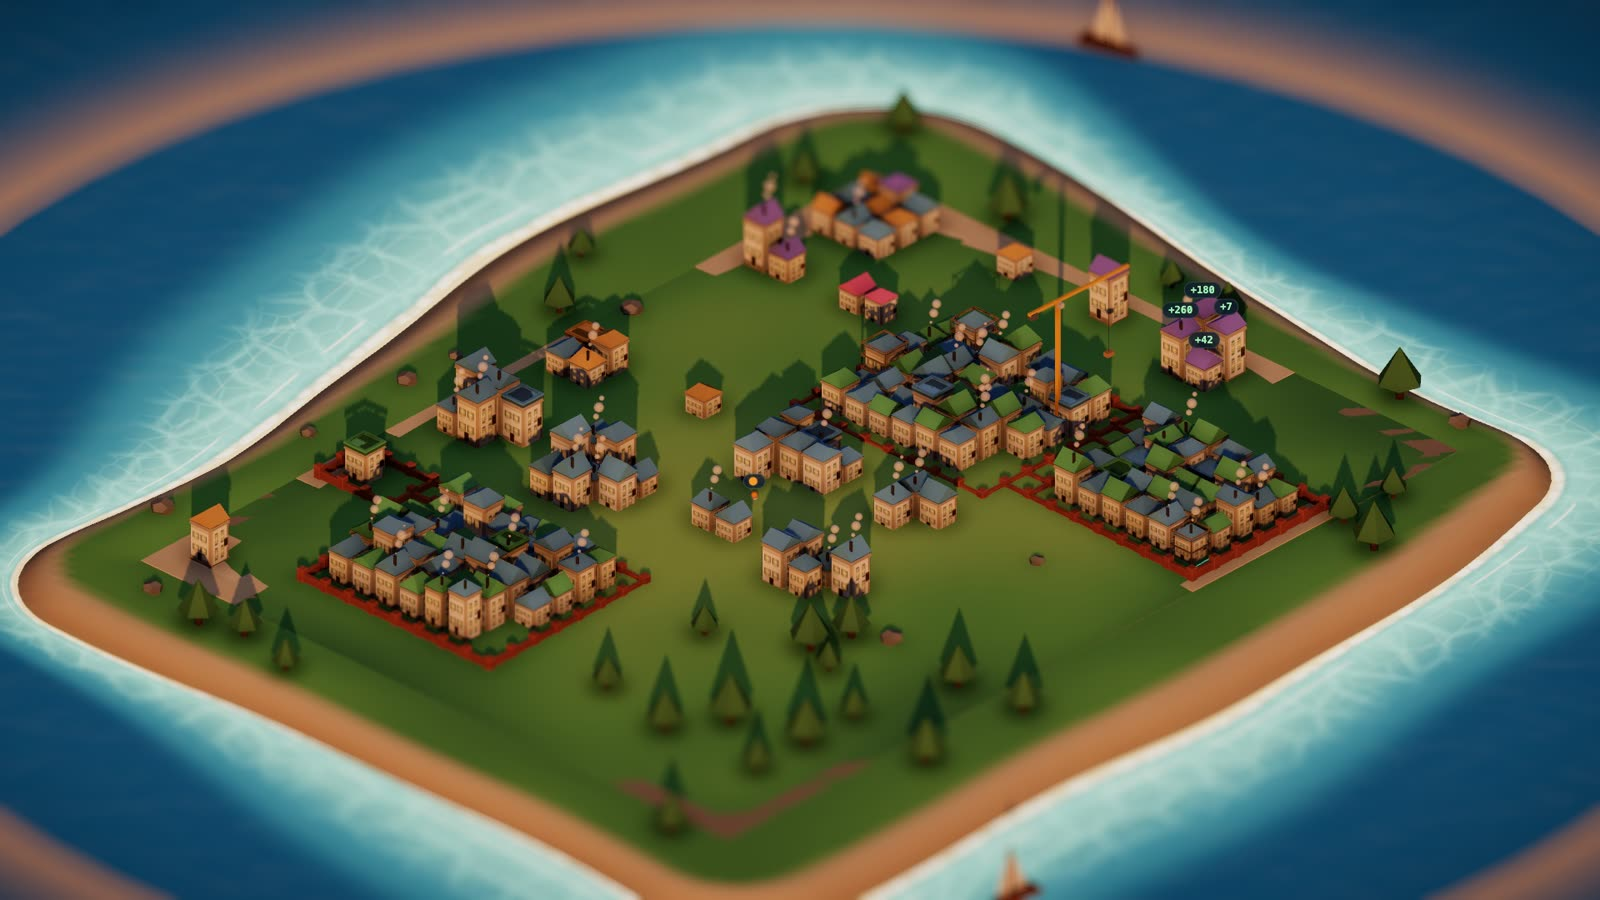
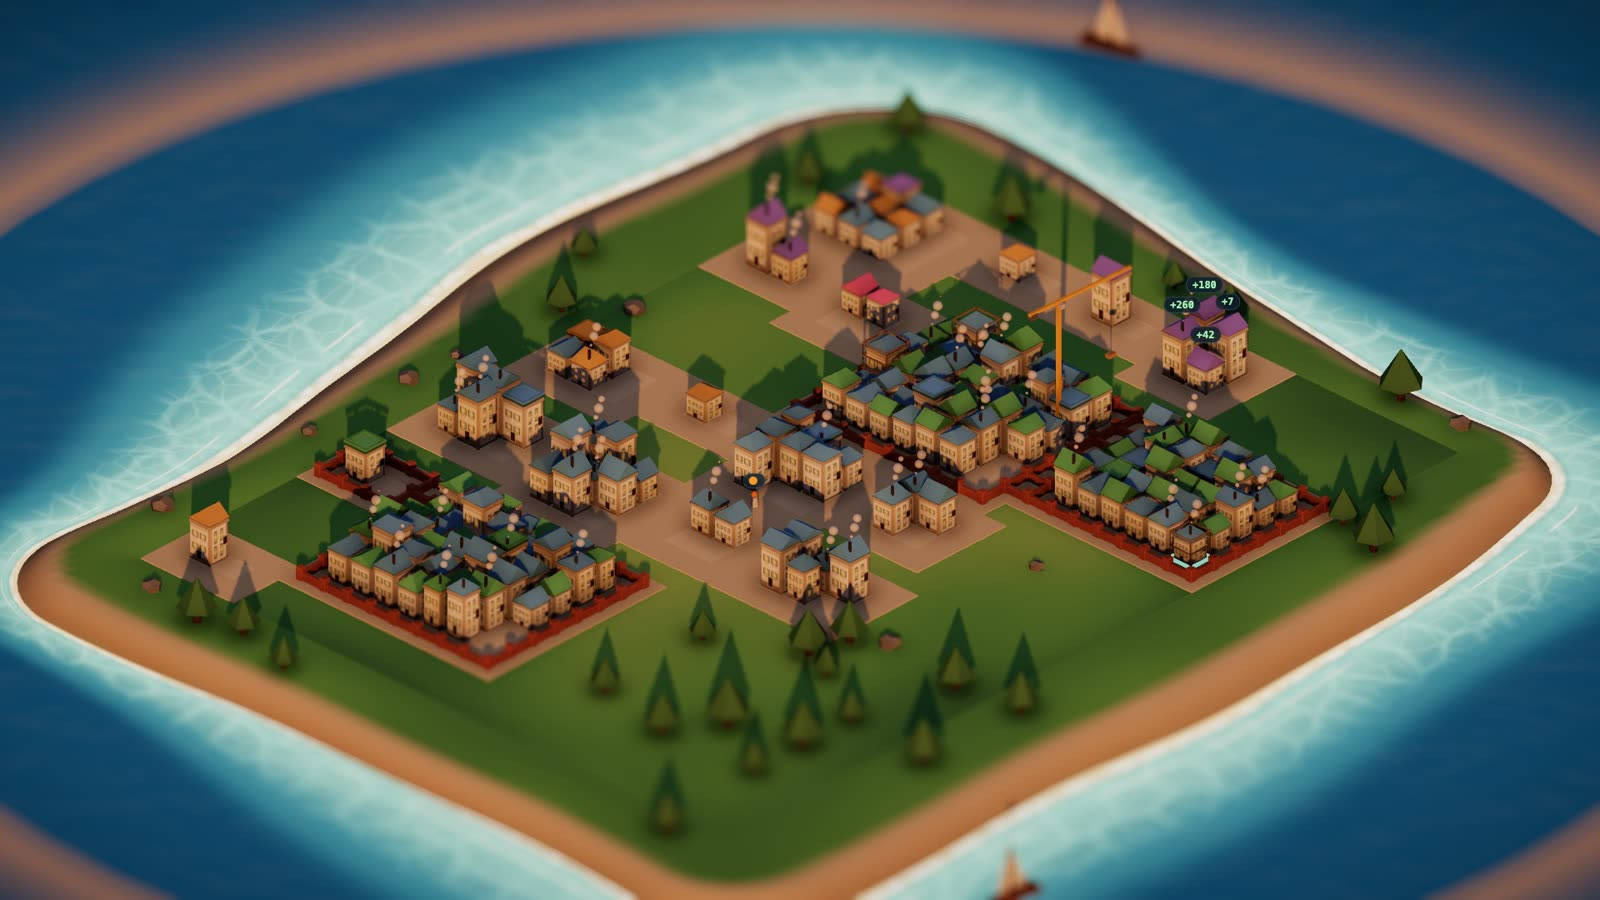
fix(town): stop the ground, paths and flat roofs flickering
- The cliff slab's top sat at y=0, coplanar with the ground: it z-fought
  through the grass as brown patches. It now stops under the coast surface.
- The town ground was a dome up to 0.32 high while every road, plot and
  building stands on y=0: it buried the paths, sank buildings unevenly (equal
  files read as unequal), and met the paths at the edges where they flickered.
  The ground is now flat and keeps the dome only as shading.
- Lift the flat-roof deck off the slab's top face it was coplanar with.

diff --git a/src/components/TownView.tsx b/src/components/TownView.tsx
@@ -9,7 +9,6 @@ import { DistrictPanel, type SelectedDistrictInfo } from "./DistrictPanel";
 import { VillagerPanel } from "./VillagerPanel";
 import { buildingWallGeometry, flatRoofGeometry, gabledRoofGeometry, hippedRoofGeometry, pyramidRoofGeometry } from "./bevelGeometry";
 import { buildSafeGroundGeometry } from "./terrainGeometry";
-import { safeDomeHeight } from "../terrain";
 import { OpenWater, SUN_OFFSET, TownShallows } from "./Water";
 import { useDisposableMemo } from "./useDisposableMemo";
 import { buildAttentionHaloGeometry } from "./attentionHalo";
@@ -308,6 +307,9 @@ export const WALL_COLOR = "#c1704a";
  * what gives the island a coastline (a visible cliff edge) instead of being
  * an infinite flat sheet the water merely tints. */
 export const GROUND_THICKNESS = 0.5;
+/** How far below y=0 the cliff slab's top stops — under the coast mesh's
+ * interior (-0.03), never coplanar with the ground. */
+const CLIFF_TOP_GAP = 0.05;
 /** Warm off-white/cream — every building's WALL colour now, regardless of
  * `BuildingKind`. This is the single inversion that does most of the work of
  * reading as Townscaper rather than a spreadsheet: kind is still fully
@@ -1763,8 +1765,11 @@ function boxCorners(box: THREE.Box3): THREE.Vector3[] {
 // (design inputs §3: "no filler trees in empty plots, no invented harbour").
 // ---------------------------------------------------------------------
 
-/** How high the town's own ground mound rises at its centre, and how far it
- * dips (never below 0 — see `safeDomeHeight`) toward its edges. Kept small
+/** How high the town's ground would rise at its centre. It only SHADES the
+ * grass now — the surface itself is flat (`flat: true` below), because
+ * everything on it stands on y=0 — so it reads as a gentle rise without
+ * burying paths or sinking buildings. Originally: how far it dips (never
+ * below 0 — see `safeDomeHeight`) toward its edges. Kept small
  * and constant, well under the smallest real building's own height
  * (`buildingWorldHeight`'s `HEIGHT_BASE_FRAC * gridPitch`, at minimum
  * `0.85 * gridPitch`): art-direction round's own constraint, "terrain
@@ -1820,7 +1825,9 @@ function TownVegetationImpl({ layout, model }: { layout: CityLayout; model: City
       }),
     [layout],
   );
-  const heightAt = useMemo(() => (u: number, v: number) => safeDomeHeight(u, v, TOWN_MOUND_HEIGHT), []);
+  // The town's ground is flat (see `buildSafeGroundGeometry`'s `flat`), so
+  // trees stand at y=0 like everything else on it.
+  const heightAt = useMemo(() => () => 0, []);
   // The coast's meadow gets trees and rocks too — the same scatter, masked
   // to the band of grass between the town's edge and the beach.
   const { margin, spanX, spanZ } = useMemo(() => coastExtent(w, d), [w, d]);
@@ -1885,6 +1892,7 @@ function GroundImpl({ layout }: { layout: CityLayout }) {
         shadeColor: GRASS_SHADE_COLOR,
         lightColor: GRASS_LIGHT_COLOR,
         beachAtEdge: false,
+        flat: true,
       }),
     [w, d],
   );
@@ -1916,9 +1924,8 @@ function GroundImpl({ layout }: { layout: CityLayout }) {
 
   return (
     <group>
-      {/* The domed top — height 0 (at/past the edge) to `TOWN_MOUND_HEIGHT`
-          (at the centre), sitting ABOVE y=0 so it never sinks the ground
-          below the level every building's own base assumes. */}
+      {/* The town's ground: flat at y=0, the level every building, road and
+          plot stands on, shaded as if domed by `TOWN_MOUND_HEIGHT`. */}
       <mesh geometry={groundGeometry} receiveShadow castShadow>
         <meshStandardMaterial vertexColors roughness={1} />
       </mesh>
@@ -1932,8 +1939,11 @@ function GroundImpl({ layout }: { layout: CityLayout }) {
       {/* Scenery-craft round: the cliff is the ROCK under the turf, not more
           grass painted vertically — an identically-coloured side face is
           what made the town read as a rug rather than a piece of land. */}
-      <mesh position={[w / 2, -GROUND_THICKNESS / 2, d / 2]}>
-        <boxGeometry args={[w, GROUND_THICKNESS, d]} />
+      {/* Its top stops just under the coast's own interior surface (-0.03):
+          at exactly y=0 it was coplanar with the ground and flickered
+          through it in brown patches. */}
+      <mesh position={[w / 2, -(GROUND_THICKNESS + CLIFF_TOP_GAP) / 2, d / 2]}>
+        <boxGeometry args={[w, GROUND_THICKNESS - CLIFF_TOP_GAP, d]} />
         <meshStandardMaterial color={CLIFF_COLOR} roughness={1} />
       </mesh>
       {/* The open sea, then the town's own shallows laid over it — see

diff --git a/src/components/terrainGeometry.ts b/src/components/terrainGeometry.ts
@@ -191,6 +191,12 @@ export type SafeGroundOptions = {
   /** Paint a beach around the rectangle's own edge. Off when a coast
    * (`townCoast.ts`) surrounds the ground and provides the beach itself. */
   beachAtEdge?: boolean;
+  /** Shade the grass by the dome but keep the surface at y=0. A town's own
+   * ground sits under real buildings, roads and plots that all stand on
+   * y=0: a raised dome buried them toward the centre, sank buildings by up
+   * to `moundHeight` (so equal files looked unequal), and z-fought with the
+   * paths wherever the two heights met. */
+  flat?: boolean;
 };
 
 /**
@@ -204,7 +210,7 @@ export type SafeGroundOptions = {
  * where the shallow-water shelf begins.
  */
 export function buildSafeGroundGeometry(options: SafeGroundOptions): THREE.BufferGeometry {
-  const { width, depth, moundHeight, landColor, shadeColor, lightColor, sandColor, wetSandColor, beachAtEdge = true } = options;
+  const { width, depth, moundHeight, landColor, shadeColor, lightColor, sandColor, wetSandColor, beachAtEdge = true, flat = false } = options;
   const segments = 40;
   const geometry = new THREE.PlaneGeometry(width, depth, segments, segments);
   geometry.rotateX(-Math.PI / 2);
@@ -230,7 +236,7 @@ export function buildSafeGroundGeometry(options: SafeGroundOptions): THREE.Buffe
     const u = (x - width / 2) / (width / 2);
     const v = (z - depth / 2) / (depth / 2);
     const height = safeDomeHeight(u, v, moundHeight);
-    position.setY(i, height);
+    position.setY(i, flat ? 0 : height);
 
     // The beach, measured as a constant inset from the plot's own edge
     // (`rectInset`) rather than from the dome's height. Scenery-craft round:

diff --git a/src/components/terrainGeometry.test.ts b/src/components/terrainGeometry.test.ts
@@ -1,0 +1,21 @@
+import { describe, expect, it } from "vitest";
+import { buildSafeGroundGeometry } from "./terrainGeometry";
+
+const options = {
+  width: 20, depth: 14, moundHeight: 0.32,
+  landColor: "#7fb069", shadeColor: "#5f8f4e", lightColor: "#a3c97a", sandColor: "#e3c99a", wetSandColor: "#c9a978",
+  beachAtEdge: false,
+};
+
+describe("buildSafeGroundGeometry", () => {
+  it("keeps a town's ground flat at y=0 while still shading it like the dome", () => {
+    const flat = buildSafeGroundGeometry({ ...options, flat: true });
+    const domed = buildSafeGroundGeometry(options);
+    const ys = Array.from({ length: flat.attributes.position.count }, (_, i) => flat.attributes.position.getY(i));
+    expect(Math.max(...ys.map(Math.abs))).toBe(0);
+    // Same shading either way: only the surface height changes.
+    expect(Array.from(flat.attributes.color.array)).toEqual(Array.from(domed.attributes.color.array));
+    const domedYs = Array.from({ length: domed.attributes.position.count }, (_, i) => domed.attributes.position.getY(i));
+    expect(Math.max(...domedYs)).toBeCloseTo(0.32, 2);
+  });
+});

diff --git a/src/components/bevelGeometry.ts b/src/components/bevelGeometry.ts
@@ -91,7 +91,10 @@ export function flatRoofGeometry(): THREE.BufferGeometry {
   };
   // Lit: the parapet's four walls and the deck; dark: the slab's edge.
   const parapet = [...box(-o, o, deck, top, -o, -i), ...box(-o, o, deck, top, i, o), ...box(-o, -i, deck, top, -i, i), ...box(i, o, deck, top, -i, i)];
-  const deckTris = [[[-i, deck, -i], [-i, deck, i], [i, deck, i]], [[-i, deck, -i], [i, deck, i], [i, deck, -i]]];
+  // A hair above the slab's own top face: at exactly `deck` the two were
+  // coplanar and the deck flickered in stripes.
+  const deckY = deck + 0.02;
+  const deckTris = [[[-i, deckY, -i], [-i, deckY, i], [i, deckY, i]], [[-i, deckY, -i], [i, deckY, i], [i, deckY, -i]]];
   const slab = box(-o, o, base, deck, -o, o);
   // The deck is a shade lighter than the roof colour: sunk behind the
   // parapet it otherwise reads as a dark hole.

diff --git a/src/components/bevelGeometry.test.ts b/src/components/bevelGeometry.test.ts
@@ -146,7 +146,7 @@ describe("flatRoofGeometry", () => {
     const insideOf = (c: THREE.Vector3) => {
       const t = triangle++;
       if (t < 40) return centres[Math.floor(t / 10)];
-      if (t < 42) return new THREE.Vector3(c.x, 0, c.z);
+      if (t < 42) return new THREE.Vector3(c.x, 0, c.z); // the deck, judged from below
       return new THREE.Vector3(0, -0.2, 0);
     };
     expect(geometry.attributes.position.count / 3).toBe(52);
